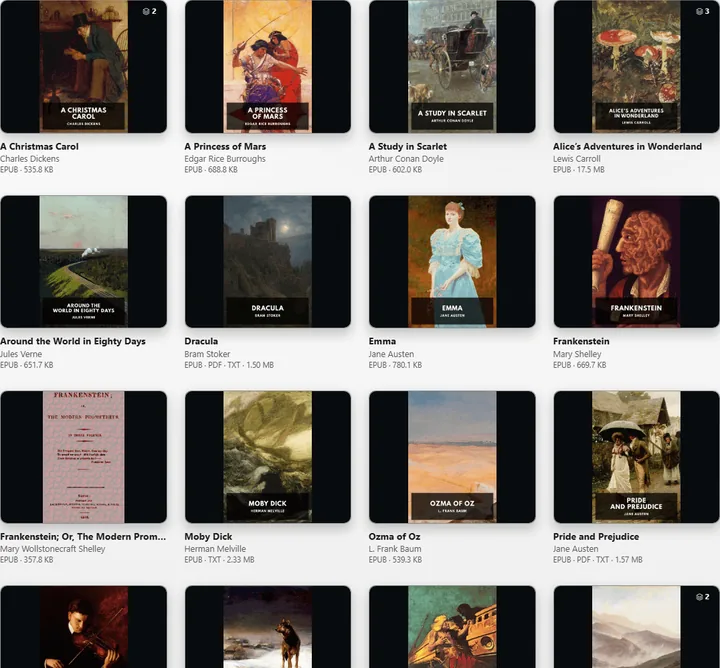
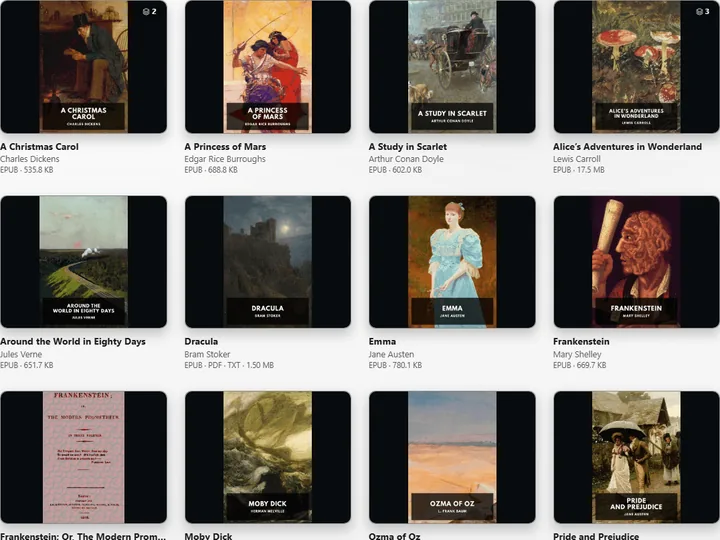
Rails: fourteen cards, every one cut to 4:3 by the rig
The rig gains an aspect option that frames a clip at a fixed ratio, cropped
from the top, and every rail card asks for 4:3. Six new cards: a book page,
the editions block, the reader, an album, a person's profile, and quotes.
The counter now reads n / n once the rail has scrolled as far as it can.

diff --git a/index.html b/index.html
@@ -66,7 +66,7 @@
         </ul>
       </section>
 
-      <!-- ─── Library ──────────────────────────────────────────────────────────── -->
+      <!-- ─── Library ─────────────────────────────────────────────────────────────── -->
       <section class="group" id="library" aria-labelledby="g-library">
         <div class="group-head">
           <p class="eyebrow">Library</p>
@@ -79,14 +79,25 @@
                 src="Assets/screenshots/audiobooks-grid-720.webp"
                 srcset="Assets/screenshots/audiobooks-grid-720.webp 720w, Assets/screenshots/audiobooks-grid-1076.webp 1076w"
                 sizes="(min-width: 760px) 440px, 82vw"
-                width="1076" height="1000" loading="lazy" decoding="async"
+                width="1076" height="807" loading="lazy" decoding="async"
                 alt="An audiobook shelf: a grid of covers with running time and series position under each"
               >
               <h3>Audiobooks</h3>
               <p>
-                A folder of files becomes a book with chapters, a cover, the reader who
-                recorded it, and its place in the series. Stop on your phone, pick up on
-                the laptop, come back a year later — the bookmark is still there.
+                A folder of files becomes a book with chapters, a cover, the reader who recorded it, and its place in the series. Stop on your phone, pick up on the laptop, come back a year later — the bookmark is still there.
+              </p>
+            </li>
+            <li class="card">
+              <img
+                src="Assets/screenshots/audiobook-detail-720.webp"
+                srcset="Assets/screenshots/audiobook-detail-720.webp 720w, Assets/screenshots/audiobook-detail-1076.webp 1076w"
+                sizes="(min-width: 760px) 440px, 82vw"
+                width="1076" height="807" loading="lazy" decoding="async"
+                alt="A book page for The Hound of the Baskervilles: cover, narrator, series position, a Start listening button and the editions it belongs to"
+              >
+              <h3>A page per book</h3>
+              <p>
+                Cover, description, narrator, series position, the chapters, and how far along you are. Send it to a phone for the plane; it comes back with the progress made offline.
               </p>
             </li>
             <li class="card">
@@ -94,26 +105,50 @@
                 src="Assets/screenshots/ebooks-grid-720.webp"
                 srcset="Assets/screenshots/ebooks-grid-720.webp 720w, Assets/screenshots/ebooks-grid-1076.webp 1076w"
                 sizes="(min-width: 760px) 440px, 82vw"
-                width="1076" height="1000" loading="lazy" decoding="async"
+                width="1076" height="807" loading="lazy" decoding="async"
                 alt="An ebook shelf: cover grid with author under each, a small badge marking books that have more than one edition"
               >
               <h3>Ebooks</h3>
               <p>
-                EPUB and FB2 open in a reader built in; PDF opens as itself. The same
-                title in three formats is one book, not three. Highlight a passage and
-                keep it as a quote; send a book straight to a Kindle from its page.
+                EPUB and FB2 open in a reader built in; PDF opens as itself. The same title in three formats is one book, not three. OPDS feeds let your own e-reader app browse the shelf.
+              </p>
+            </li>
+            <li class="card">
+              <img
+                src="Assets/screenshots/book-editions-720.webp"
+                srcset="Assets/screenshots/book-editions-720.webp 720w, Assets/screenshots/book-editions-1020.webp 1020w"
+                sizes="(min-width: 760px) 440px, 82vw"
+                width="1020" height="765" loading="lazy" decoding="async"
+                alt="The Editions block on a book page: three editions of Alice's Adventures in Wonderland, one marked primary"
+              >
+              <h3>Editions</h3>
+              <p>
+                A second translation, another publisher's text, the audiobook of a book you also own — those are editions, grouped on one page with the one you're reading marked.
+              </p>
+            </li>
+            <li class="card">
+              <img
+                src="Assets/screenshots/ebook-reader-720.webp"
+                srcset="Assets/screenshots/ebook-reader-720.webp 720w, Assets/screenshots/ebook-reader-1080.webp 1080w, Assets/screenshots/ebook-reader-1440.webp 1440w"
+                sizes="(min-width: 760px) 440px, 82vw"
+                width="1440" height="1080" loading="lazy" decoding="async"
+                alt="The built-in reader open on the first chapter of Alice's Adventures in Wonderland"
+              >
+              <h3>The reader</h3>
+              <p>
+                Paged or scrolled, day or night, your typeface. Highlight a passage and keep it as a quote — it remembers the page. Or send the book straight to a Kindle from its page.
               </p>
             </li>
           </ul>
           <div class="rail-controls">
-            <span class="rail-count" aria-live="polite">1 / 2</span>
+            <span class="rail-count" aria-live="polite">1 / 5</span>
             <button type="button" class="rail-btn" data-dir="-1" aria-label="Previous">&#8592;</button>
             <button type="button" class="rail-btn" data-dir="1" aria-label="Next">&#8594;</button>
           </div>
         </div>
       </section>
 
-      <!-- ─── Gallery ──────────────────────────────────────────────────────────── -->
+      <!-- ─── Photos & videos ─────────────────────────────────────────────────────── -->
       <section class="group group-alt" id="gallery" aria-labelledby="g-gallery">
         <div class="group-head">
           <p class="eyebrow">Photos &amp; videos</p>
@@ -126,29 +161,25 @@
                 src="Assets/screenshots/gallery-timeline-dark-720.webp"
                 srcset="Assets/screenshots/gallery-timeline-dark-720.webp 720w, Assets/screenshots/gallery-timeline-dark-1076.webp 1076w"
                 sizes="(min-width: 760px) 440px, 82vw"
-                width="1076" height="1000" loading="lazy" decoding="async"
+                width="1076" height="807" loading="lazy" decoding="async"
                 alt="The gallery timeline in the dark theme: an Around-this-day card, then photos grouped under their dates"
               >
               <h3>Timeline</h3>
               <p>
-                Point it at the folders you already have. Photos land on a timeline by
-                the day they were taken, the same day in earlier years surfaces on its
-                own, and nothing is copied or moved.
+                Point it at the folders you already have. Photos land on a timeline by the day they were taken, the same day in earlier years surfaces on its own, and nothing is copied or moved.
               </p>
             </li>
             <li class="card">
               <img
                 src="Assets/screenshots/gallery-people-720.webp"
-                srcset="Assets/screenshots/gallery-people-720.webp 720w, Assets/screenshots/gallery-people-1092.webp 1092w"
+                srcset="Assets/screenshots/gallery-people-720.webp 720w, Assets/screenshots/gallery-people-1076.webp 1076w"
                 sizes="(min-width: 760px) 440px, 82vw"
-                width="1092" height="365" loading="lazy" decoding="async"
-                alt="The People page: a row of named people, each with a face crop and how many photos they appear in"
+                width="1076" height="807" loading="lazy" decoding="async"
+                alt="The People page: named people in a row, each with a face crop and a photo count, then the unnamed groups"
               >
               <h3>People</h3>
               <p>
-                Turn it on for a library and a background job finds faces and gathers
-                them into people. Name the ones who matter and the name sticks. The
-                models ship with the app; not one pixel is sent anywhere.
+                Turn it on for a library and a background job finds faces and gathers them into people. Name the ones who matter and the name sticks. The models ship with the app; not one pixel is sent anywhere.
               </p>
             </li>
             <li class="card">
@@ -156,41 +187,50 @@
                 src="Assets/screenshots/gallery-map-dark-720.webp"
                 srcset="Assets/screenshots/gallery-map-dark-720.webp 720w, Assets/screenshots/gallery-map-dark-1076.webp 1076w"
                 sizes="(min-width: 760px) 440px, 82vw"
-                width="1076" height="650" loading="lazy" decoding="async"
-                alt="A world map with numbered clusters over Europe and North America showing how many photos were taken there"
+                width="1076" height="807" loading="lazy" decoding="async"
+                alt="A world map with numbered clusters showing how many photos were taken in each place"
               >
               <h3>Map</h3>
               <p>
-                Anything with a location joins the map, gathered into clusters until you
-                zoom close enough to tell them apart. Photos without one can be placed
-                by hand — search for the town, drop a pin, done for the whole batch.
+                Anything with a location joins the map, gathered into clusters until you zoom close enough to tell them apart. Photos without one can be placed by hand — search for the town, drop a pin, done for the whole batch.
+              </p>
+            </li>
+            <li class="card">
+              <img
+                src="Assets/screenshots/gallery-album-720.webp"
+                srcset="Assets/screenshots/gallery-album-720.webp 720w, Assets/screenshots/gallery-album-1076.webp 1076w"
+                sizes="(min-width: 760px) 440px, 82vw"
+                width="1076" height="807" loading="lazy" decoding="async"
+                alt="An album called Sunday dinner, June 2025: a grid of photographs of food and the table"
+              >
+              <h3>Albums and slideshows</h3>
+              <p>
+                An album is a set you choose; a slideshow is an album with a transition and your music under it. Render it to a real 1080p movie in the background — the file lands back in the gallery.
               </p>
             </li>
             <li class="card">
               <img
                 src="Assets/screenshots/duplicate-card-720.webp"
-                srcset="Assets/screenshots/duplicate-card-720.webp 720w, Assets/screenshots/duplicate-card-984.webp 984w"
+                srcset="Assets/screenshots/duplicate-card-720.webp 720w, Assets/screenshots/duplicate-card-952.webp 952w"
                 sizes="(min-width: 760px) 440px, 82vw"
-                width="984" height="437" loading="lazy" decoding="async"
-                alt="A duplicate-cleanup card: two copies of one photo, one marked keep and one marked delete, with the reason and the buttons to act"
+                width="952" height="714" loading="lazy" decoding="async"
+                alt="Duplicate sets: two copies of a photo side by side, one marked keep and one marked delete, with the reason"
               >
               <h3>Duplicate cleanup</h3>
               <p>
-                Phone backups run twice. A cleanup finds the copies, says which one it
-                would keep and why, and lets you work through the list at your own pace.
-                Everything removed goes to the Recycle Bin, not to oblivion.
+                Phone backups run twice. A cleanup finds the copies, says which one it would keep and why, and lets you work through the list at your own pace. Everything removed goes to the Recycle Bin, not to oblivion.
               </p>
             </li>
           </ul>
           <div class="rail-controls">
-            <span class="rail-count" aria-live="polite">1 / 4</span>
+            <span class="rail-count" aria-live="polite">1 / 5</span>
             <button type="button" class="rail-btn" data-dir="-1" aria-label="Previous">&#8592;</button>
             <button type="button" class="rail-btn" data-dir="1" aria-label="Next">&#8594;</button>
           </div>
         </div>
       </section>
 
-      <!-- ─── Stories & family ─────────────────────────────────────────────────── -->
+      <!-- ─── Stories & family ────────────────────────────────────────────────────── -->
       <section class="group" id="stories" aria-labelledby="g-stories">
         <div class="group-head">
           <p class="eyebrow">Stories &amp; family</p>
@@ -203,34 +243,56 @@
                 src="Assets/screenshots/story-hero-720.webp"
                 srcset="Assets/screenshots/story-hero-720.webp 720w, Assets/screenshots/story-hero-1016.webp 1016w"
                 sizes="(min-width: 760px) 440px, 82vw"
-                width="1016" height="1000" loading="lazy" decoding="async"
-                alt="A story titled Alps in summer: a mountain photo across the top, four chapters listed beside it, and a map of where it happened"
+                width="1016" height="762" loading="lazy" decoding="async"
+                alt="A story titled Alps in summer: a mountain photo across the top, the opening paragraph, and a map of where it happened"
               >
               <h3>Stories</h3>
               <p>
-                A page you write yourself — your words, with the photos, the album, the
-                map of the route, a person from the family tree, a quote — placed where
-                they belong in the telling. One scrollable page, or a chapter per day.
+                A page you write yourself — your words, with the photos, the album, the map of the route, a person from the family tree, a quote — placed where they belong in the telling. One scrollable page, or a chapter per day.
               </p>
             </li>
             <li class="card">
               <img
                 src="Assets/screenshots/family-tree-dark-720.webp"
-                srcset="Assets/screenshots/family-tree-dark-720.webp 720w, Assets/screenshots/family-tree-dark-1074.webp 1074w"
+                srcset="Assets/screenshots/family-tree-dark-720.webp 720w, Assets/screenshots/family-tree-dark-1076.webp 1076w"
                 sizes="(min-width: 760px) 440px, 82vw"
-                width="1074" height="742" loading="lazy" decoding="async"
+                width="1076" height="807" loading="lazy" decoding="async"
                 alt="A family tree chart across four generations, with partners side by side and children beneath them"
               >
               <h3>Family tree</h3>
               <p>
-                Parents above, children below, partners alongside. Every person has a
-                profile, and the people found in the gallery can be linked straight to
-                their place on the tree. GEDCOM in and out, so nothing is locked in.
+                Parents above, children below, partners alongside. Second marriages, adoptions and half-siblings drawn the way they were. GEDCOM in and out, so nothing is locked in.
+              </p>
+            </li>
+            <li class="card">
+              <img
+                src="Assets/screenshots/family-person-720.webp"
+                srcset="Assets/screenshots/family-person-720.webp 720w, Assets/screenshots/family-person-1076.webp 1076w"
+                sizes="(min-width: 760px) 440px, 82vw"
+                width="1076" height="807" loading="lazy" decoding="async"
+                alt="The profile of Margaret Ellis: born 1931, her parents, husband and children laid out as relationships"
+              >
+              <h3>A profile for everyone</h3>
+              <p>
+                Every person has a page: their relationships, a timeline, their photos, the things they said. The people the gallery found can be linked straight to their place on the tree.
+              </p>
+            </li>
+            <li class="card">
+              <img
+                src="Assets/screenshots/quotes-720.webp"
+                srcset="Assets/screenshots/quotes-720.webp 720w, Assets/screenshots/quotes-1076.webp 1076w"
+                sizes="(min-width: 760px) 440px, 82vw"
+                width="1076" height="807" loading="lazy" decoding="async"
+                alt="The Quotes page: a search box, filters, and quotes by Jane Austen with their tags"
+              >
+              <h3>Quotes</h3>
+              <p>
+                Something worth keeping from a book, a person, or anywhere. Captured from the reader with the page remembered, or typed in by hand. One comes back each morning on the home page.
               </p>
             </li>
           </ul>
           <div class="rail-controls">
-            <span class="rail-count" aria-live="polite">1 / 2</span>
+            <span class="rail-count" aria-live="polite">1 / 4</span>
             <button type="button" class="rail-btn" data-dir="-1" aria-label="Previous">&#8592;</button>
             <button type="button" class="rail-btn" data-dir="1" aria-label="Next">&#8594;</button>
           </div>
@@ -355,6 +417,9 @@
         const count = wrap.querySelector(".rail-count");
         const current = () => {
           const left = rail.scrollLeft;
+          // The rail stops scrolling once the last card is in view, so the
+          // nearest-card rule alone would never reach n / n.
+          if (left + rail.clientWidth >= rail.scrollWidth - 2) return cards.length - 1;
           let best = 0;
           cards.forEach((c, i) => { if (Math.abs(c.offsetLeft - left) < Math.abs(cards[best].offsetLeft - left)) best = i; });
           return best;

diff --git a/README.md b/README.md
@@ -47,10 +47,11 @@ node scripts/marketing-shots.mjs      # captures the masters
 node scripts/marketing-optimise.mjs   # cuts the WebP derivatives
 ```
 
-Captures are cropped to the feature they show - a shelf, a row of faces, a map -
-rather than a whole window. The page itself wears the app's default theme,
-Minimalist, with its exact colour values, so most shots are in that theme too;
-a few (the hero, the map, the timeline, the family tree) are taken in the
-app's dark theme, where the content is the picture, and sit on the grey page as
-its moments of contrast. The rig switches the demo account's theme for the
-shot and switches it back.
+Captures are cropped to the feature they show - a shelf, a book page, a map -
+rather than a whole window, and the fourteen that fill the card rails are cut
+to 4:3 by the rig itself, so the page never has to guess which part of a
+picture matters. The page wears the app's default theme, Minimalist, with its
+exact colour values, so most shots are in that theme too; a few (the map, the
+timeline, the family tree) are taken in the app's dark theme, where the
+content is the picture, and sit on the grey page as its moments of contrast.
+The rig switches the demo account's theme for the shot and switches it back.
